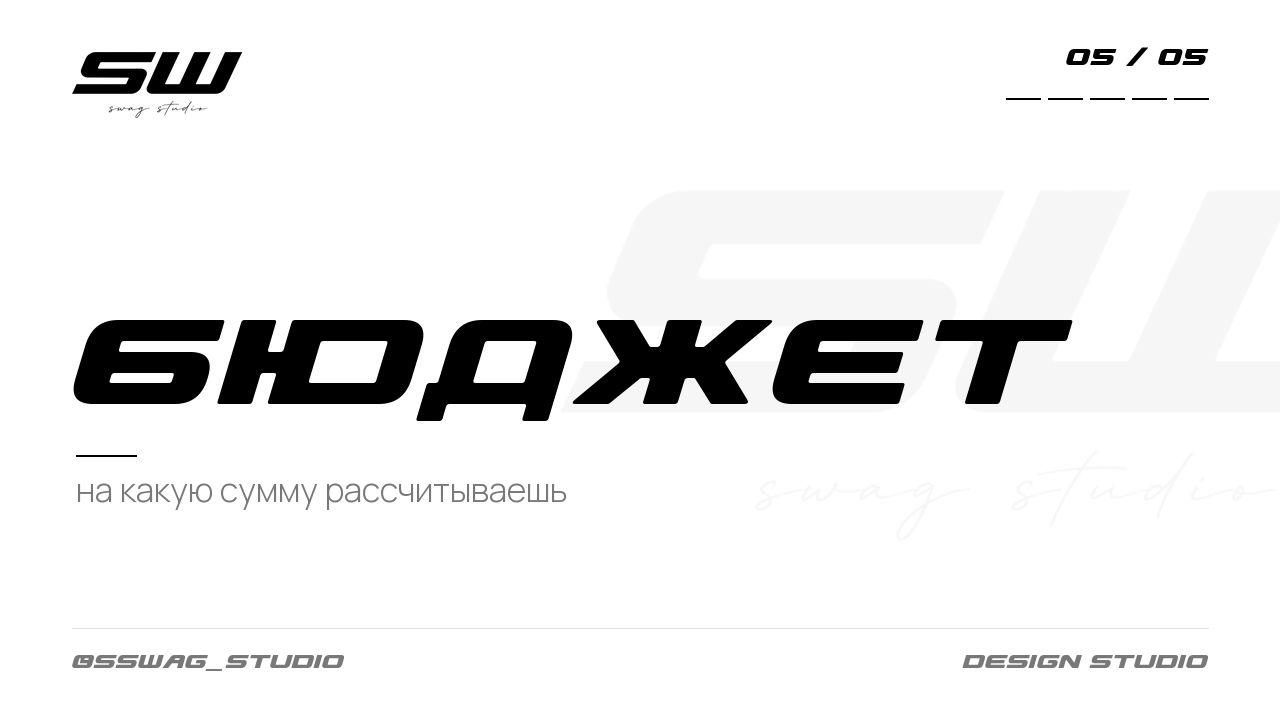
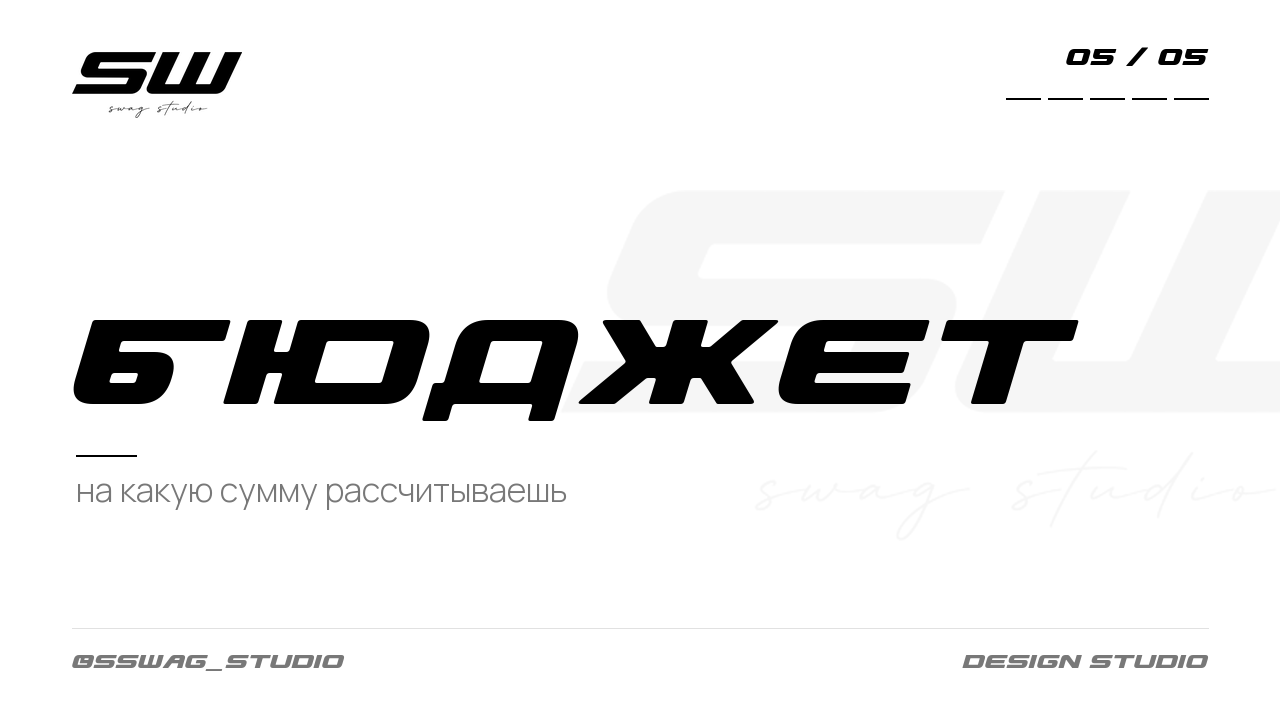
Исправлена «Б» в SWAG Display и добавлен логотип «SW БОТ»
- SWAG Display: у «Б» длинная верхняя перекладина и острый левый верхний угол,
  чтобы её не путали с «6» (было видно в заголовке «БЮДЖЕТ»)
- картинки бота перерисованы с исправленной «Б»
- make_bot_logo.py + images/bot_logo.png: логотип «SW БОТ» 1280×1280
  в стиле логотипа студии (например, для аватарки бота)

diff --git a/make_bot_logo.py b/make_bot_logo.py
@@ -1,0 +1,74 @@
+"""Логотип «SW БОТ» в стиле логотипа студии: «SW» и подпись из assets/logo.png,
+«БОТ» — шрифтом SWAG Display (он нарисован по мотивам «SW»).
+
+Запуск: python make_bot_logo.py  ->  images/bot_logo.png (1280×1280, белый фон)
+"""
+from pathlib import Path
+
+from PIL import Image, ImageChops, ImageDraw, ImageFont
+
+BASE = Path(__file__).parent
+SIZE = 1280
+FILL = 0.85          # строка «SW БОТ» занимает 85% ширины
+WORD = "БОТ"
+
+
+def logo_bands() -> tuple[Image.Image, Image.Image]:
+    """Маски «SW» и рукописной подписи из логотипа (белым по чёрному)."""
+    gray = Image.open(BASE / "assets" / "logo.png").convert("L")
+    ink = ImageChops.invert(gray).point(lambda v: 0 if v < 30 else min(255, (v - 30) * 255 // 200))
+    solid = ink.point(lambda v: 255 if v > 80 else 0)
+    rows = [any(solid.getpixel((x, y)) for x in range(0, solid.width, 2)) for y in range(solid.height)]
+    bands, start = [], None
+    for y, on in enumerate(rows + [False]):
+        if on and start is None:
+            start = y
+        elif not on and start is not None:
+            bands.append((start, y))
+            start = None
+    (sw_top, sw_bottom), (sc_top, sc_bottom) = bands[0], bands[1]
+
+    def crop(y0, y1):
+        band = ink.crop((0, max(0, y0 - 4), ink.width, y1 + 4))
+        return band.crop(band.point(lambda v: 255 if v > 60 else 0).getbbox())
+    return crop(sw_top, sw_bottom), crop(sc_top, sc_bottom)
+
+
+def word_layer(text: str, cap: int) -> Image.Image:
+    f = ImageFont.truetype(str(BASE / "fonts" / "SwagDisplay.ttf"), round(cap / 0.70 * 2))
+    l, t, r, b = f.getbbox(text)
+    im = Image.new("L", (r - l + 20, b - t + 20), 0)
+    ImageDraw.Draw(im).text((10 - l, 10 - t), text, font=f, fill=255)
+    im = im.crop(im.getbbox())
+    return im.resize((round(im.width * cap / im.height), cap), Image.LANCZOS)
+
+
+def scale(im: Image.Image, k: float) -> Image.Image:
+    return im.resize((round(im.width * k), round(im.height * k)), Image.LANCZOS)
+
+
+def main() -> None:
+    sw0, script0 = logo_bands()
+    row0 = sw0.width + round(sw0.height * 0.32) + word_layer(WORD, sw0.height).width
+    k = SIZE * FILL / row0
+    sw, script = scale(sw0, k), scale(script0, k)
+    cap = sw.height
+    word = word_layer(WORD, cap)
+    gap, sgap = round(cap * 0.32), round(cap * 0.17)
+
+    mask = Image.new("L", (SIZE, SIZE), 0)
+    x0 = (SIZE - (sw.width + gap + word.width)) // 2
+    y0 = (SIZE - (cap + sgap + script.height)) // 2
+    mask.paste(sw, (x0, y0), sw)
+    mask.paste(word, (x0 + sw.width + gap, y0), word)
+    mask.paste(script, ((SIZE - script.width) // 2, y0 + cap + sgap), script)
+
+    img = Image.new("RGB", (SIZE, SIZE), "white")
+    img.paste((0, 0, 0), (0, 0), mask)
+    out = BASE / "images" / "bot_logo.png"
+    img.save(out, optimize=True)
+    print("saved", out)
+
+
+if __name__ == "__main__":
+    main()

diff --git a/fonts/build_display.py b/fonts/build_display.py
@@ -133,7 +133,9 @@ L = GLYPHS
 CYR = {
     "А": L["A"], "В": L["B"], "Е": L["E"], "К": L["K"], "М": L["M"], "Н": L["H"], "О": L["O"],
     "Р": L["P"], "С": L["C"], "Т": L["T"], "Х": L["X"], "З": L["three"],
-    "Б": g(w, stemL(w), top(w), mid(w), bot(w), stemR(w, 0, M + T)),
+    # верхняя перекладина выступает вправо флажком, иначе «Б» не отличить от «6»
+    "Б": g(1150, stemL(1150), top(1150), mid(1150, 0, 800), bot(1150, 0, 800), R(800 - V, 0, 800, M + T),
+           sharp=[(0, H)]),
     "Г": g(w, stemL(w), top(w)),
     "Д": g(w, R(90, T, 90 + V, H), stemR(w), top(w, 90), bot(w), R(0, -140, int(V * 0.75), 0),
            R(w - int(V * 0.75), -140, w, 0), sharp=[(0, -140), (w, -140)]),
